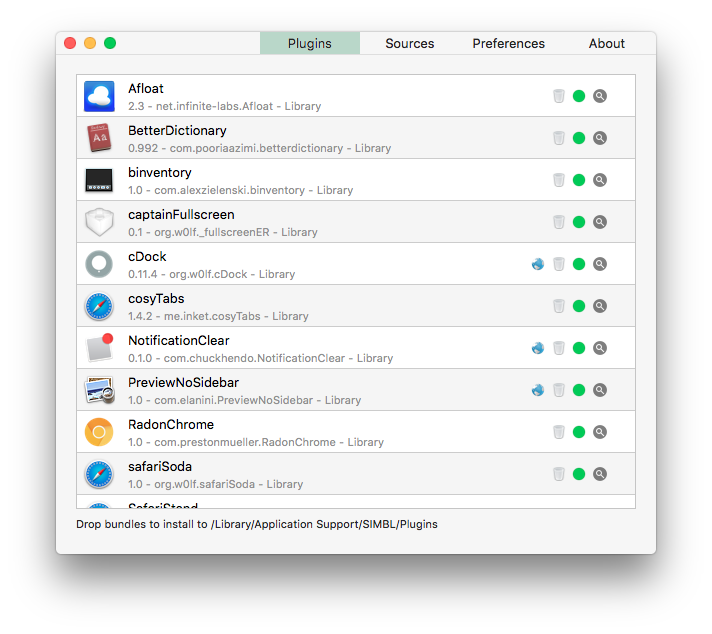
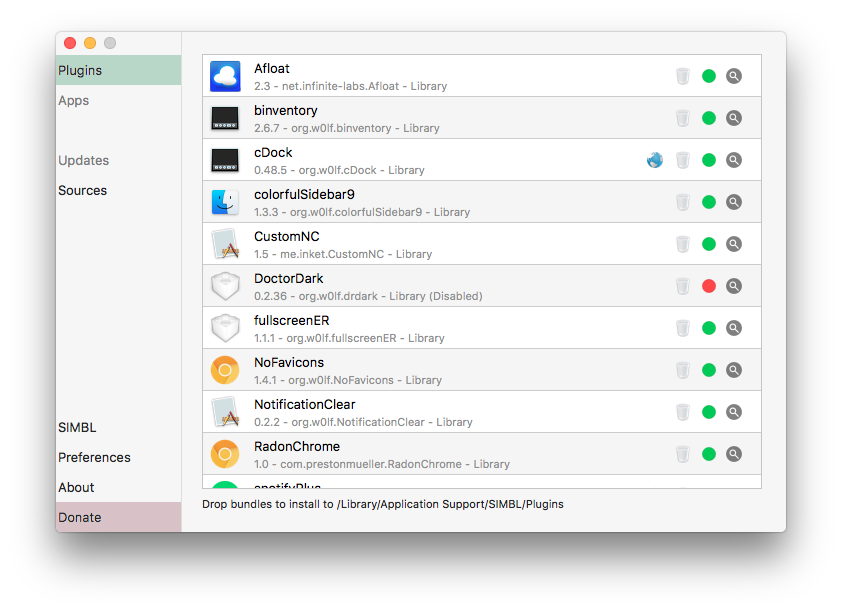
update

Changed region(s): [[0.0618, 0.031, 0.9579, 0.9003], [0.3399, 0.031, 0.618, 0.0931], [0.6489, 0.0621, 0.7725, 0.0931]]

diff --git a/README.md b/README.md
@@ -2,30 +2,24 @@
 
 # mySIMBL
 
-mySIMBL is a successor to the application EasySIMBL. It is designed to make managing SIMBL plugins easy. This appication uses the older version of SIMBL.osax (0.9.9) since EasySIMBL.osax no longer works on OS X 10.9+ and the original developer does not seem like they are going to update their application or script.
+mySIMBL is a successor to the application EasySIMBL. This application uses my own version of SIMBL since both EasySIMBL and the original SIMBL no longer work properly on macOS 10.9 and above due to changes made by Apple. Since both projects seem to have been abandoned or left unsupported I have created mySIMBL. It is designed to make finding, updating and installing SIMBL plugins easier then ever.
 
 # Installation
 
-- Download the latest release of mySIMBL
+- Download the latest release
+- Unzip the download if your browser does not do so automatically
 - Open mySIMBL
-    - You may be required to install SIMBL, mySIMBL will do this for you
+    - mySIMBL will ask to be moved to /Applications
+    - mySIMBL may ask to install or update SIMBL
     - You may be required to disable System Integrity Protection, mySIMBL will inform you but cannot automate this process
 
-# Current Funtions
+# Features
 
-- Repositories
-- Download and Update bundles
-- Drag and drop bundles to install in `/Library/Application Support/SIMBL/Plugins`
-- Open bundles with mySIMBL to install in `/Library/Application Support/SIMBL/Plugins`
-- Delete bundle (Trash can)
-- Show bundle in Finder (Magnifying Glass)
-- Move bundles between (Colored Circle Icon)
-    -	`/Library/Application Support/SIMBL/Plugins`
-    -	`/Library/Application Support/SIMBL/Plugins (Disabled)`
-    -	`~/Library/Application Support/SIMBL/Plugins`
-- Show bundle developer page (Globe Icon)
-    -	Must have url included in <bundle>/Contents/Info.plist
-    -	plist value is string 'DevURL'
-- Automatically watches for bundles in
-    -	`/Library/Application Support/SIMBL/Plugins`
-    -	`~/Library/Application Support/SIMBL/Plugins`
+- Repositories to find, download and update plugins
+- Drag and drop plugins onto mySIMBL to install them
+- Open bundles with mySIMBL to install them
+- Delete plugins (Trash can)
+- Show plugins in Finder (Magnifying Glass)
+- Enable/Disable plugins (Colored Circle Icon)
+- Show plugin developer page (Globe Icon)
+- Scan for existing plugins
